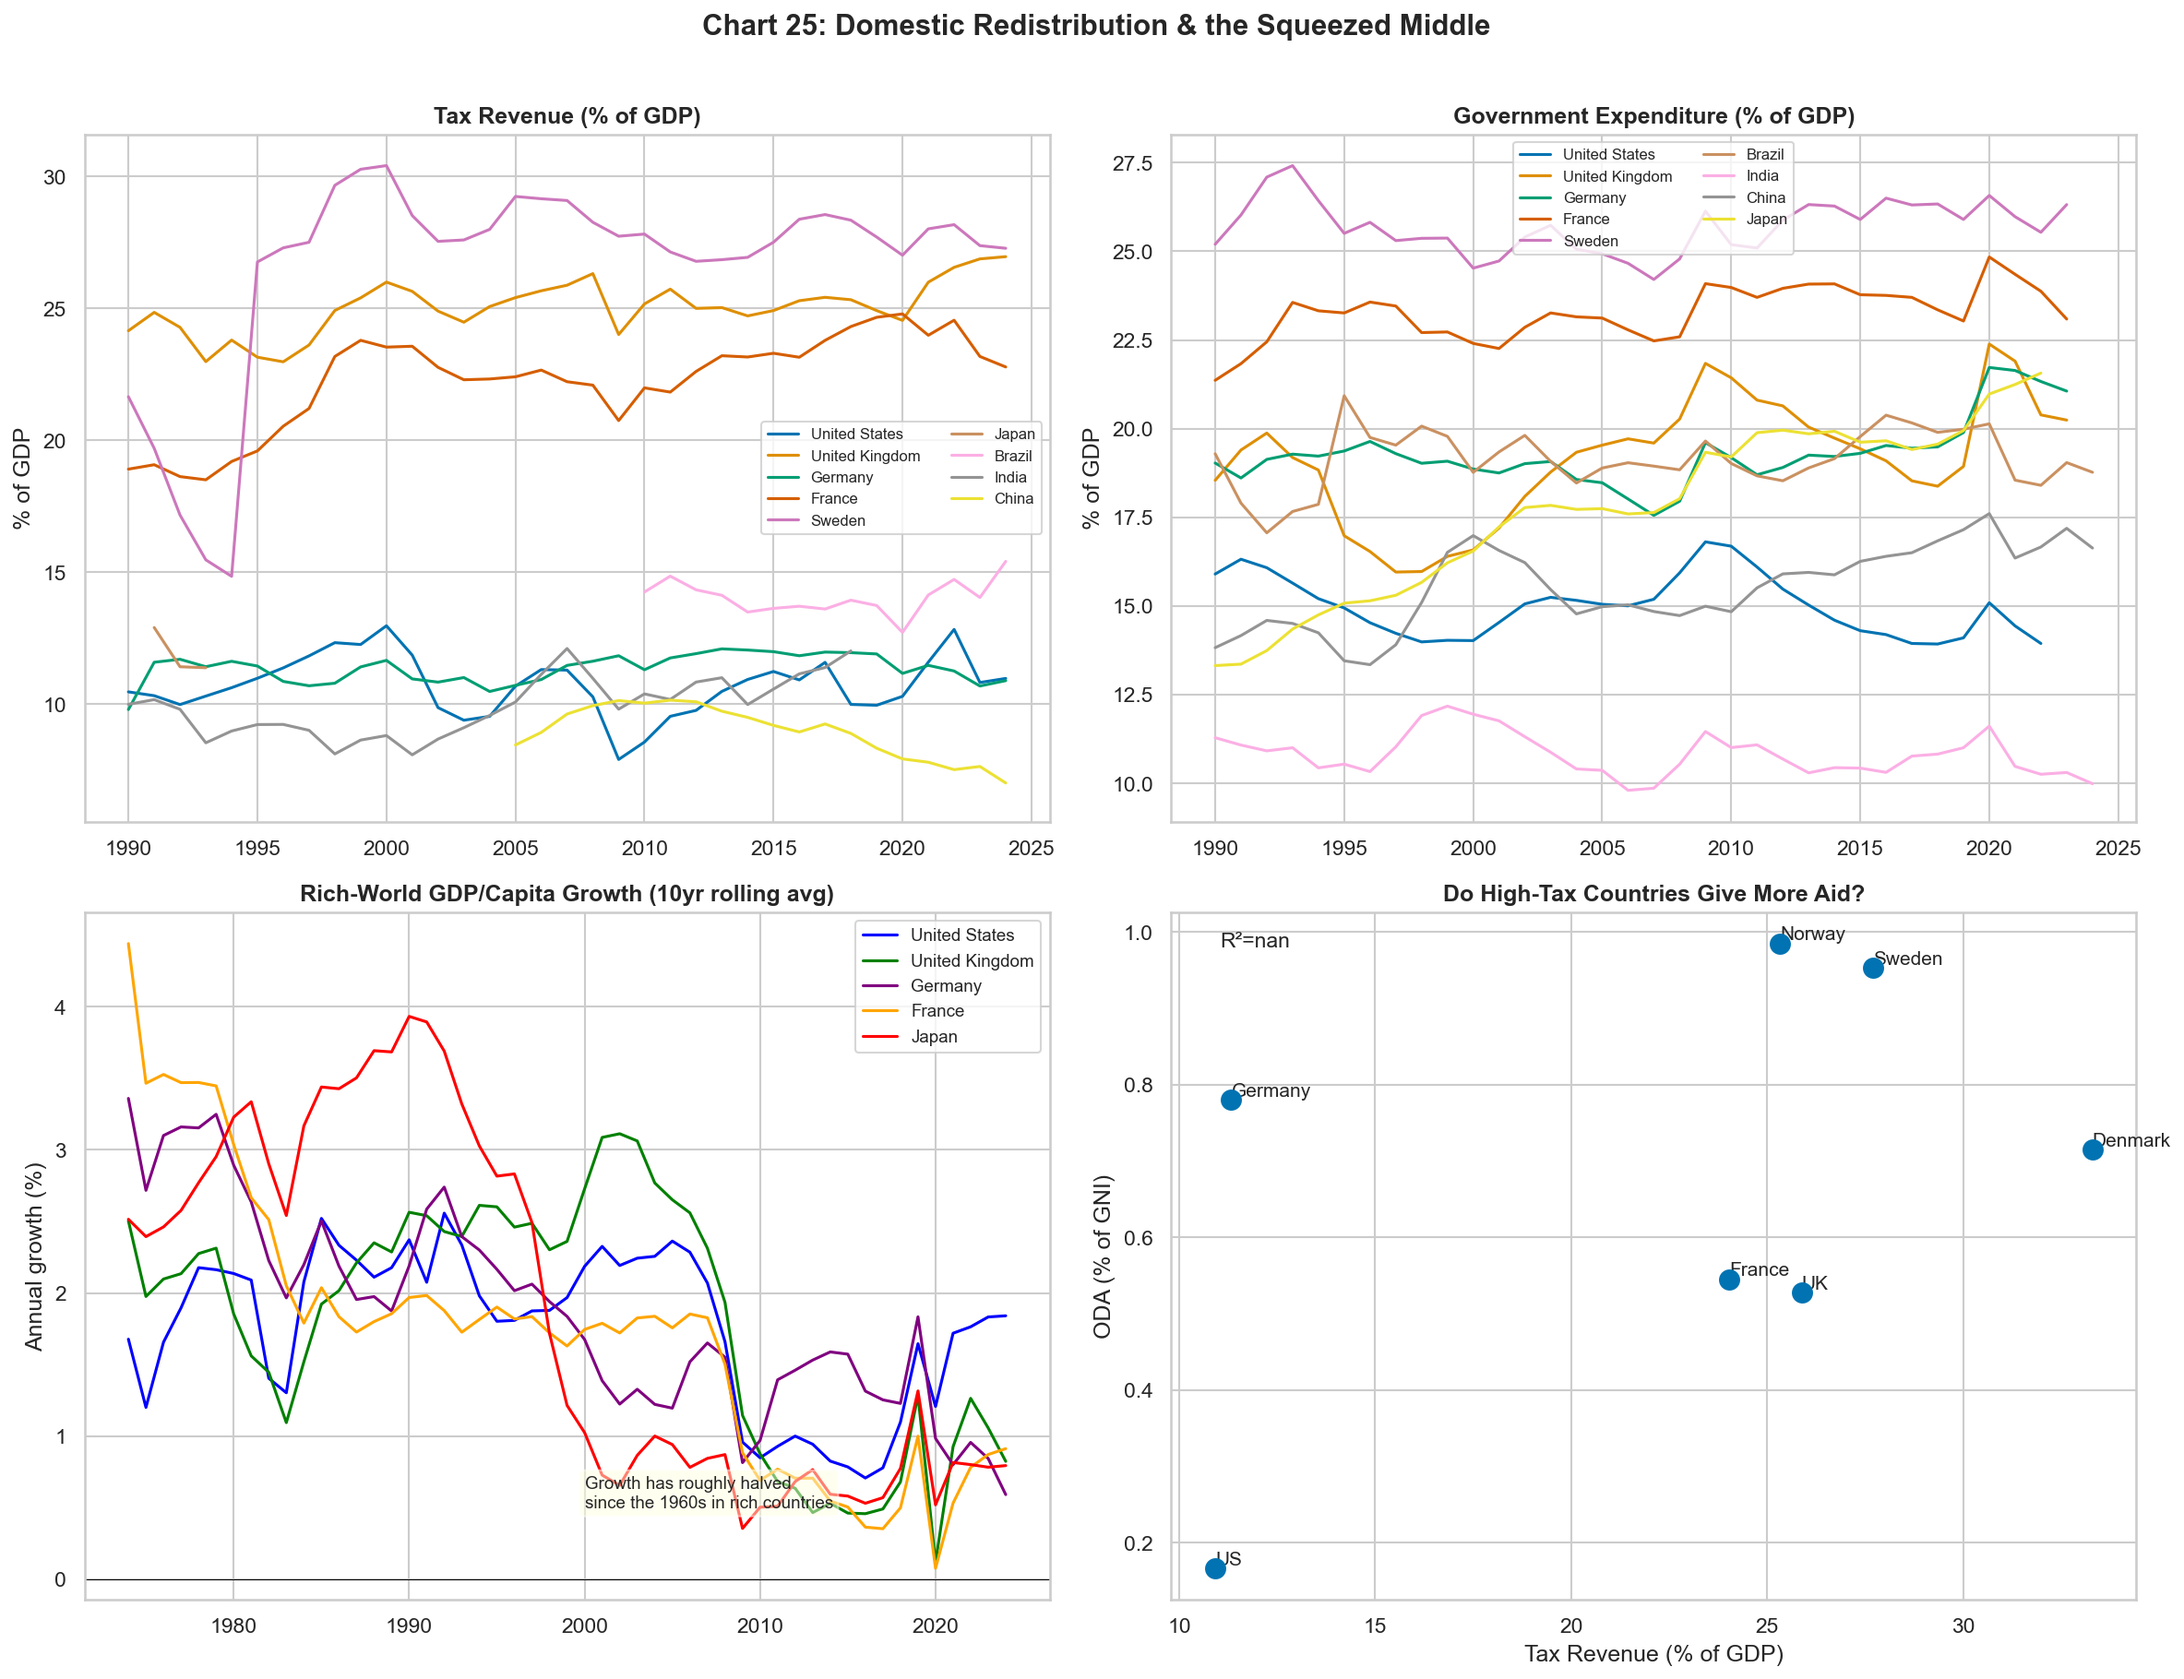
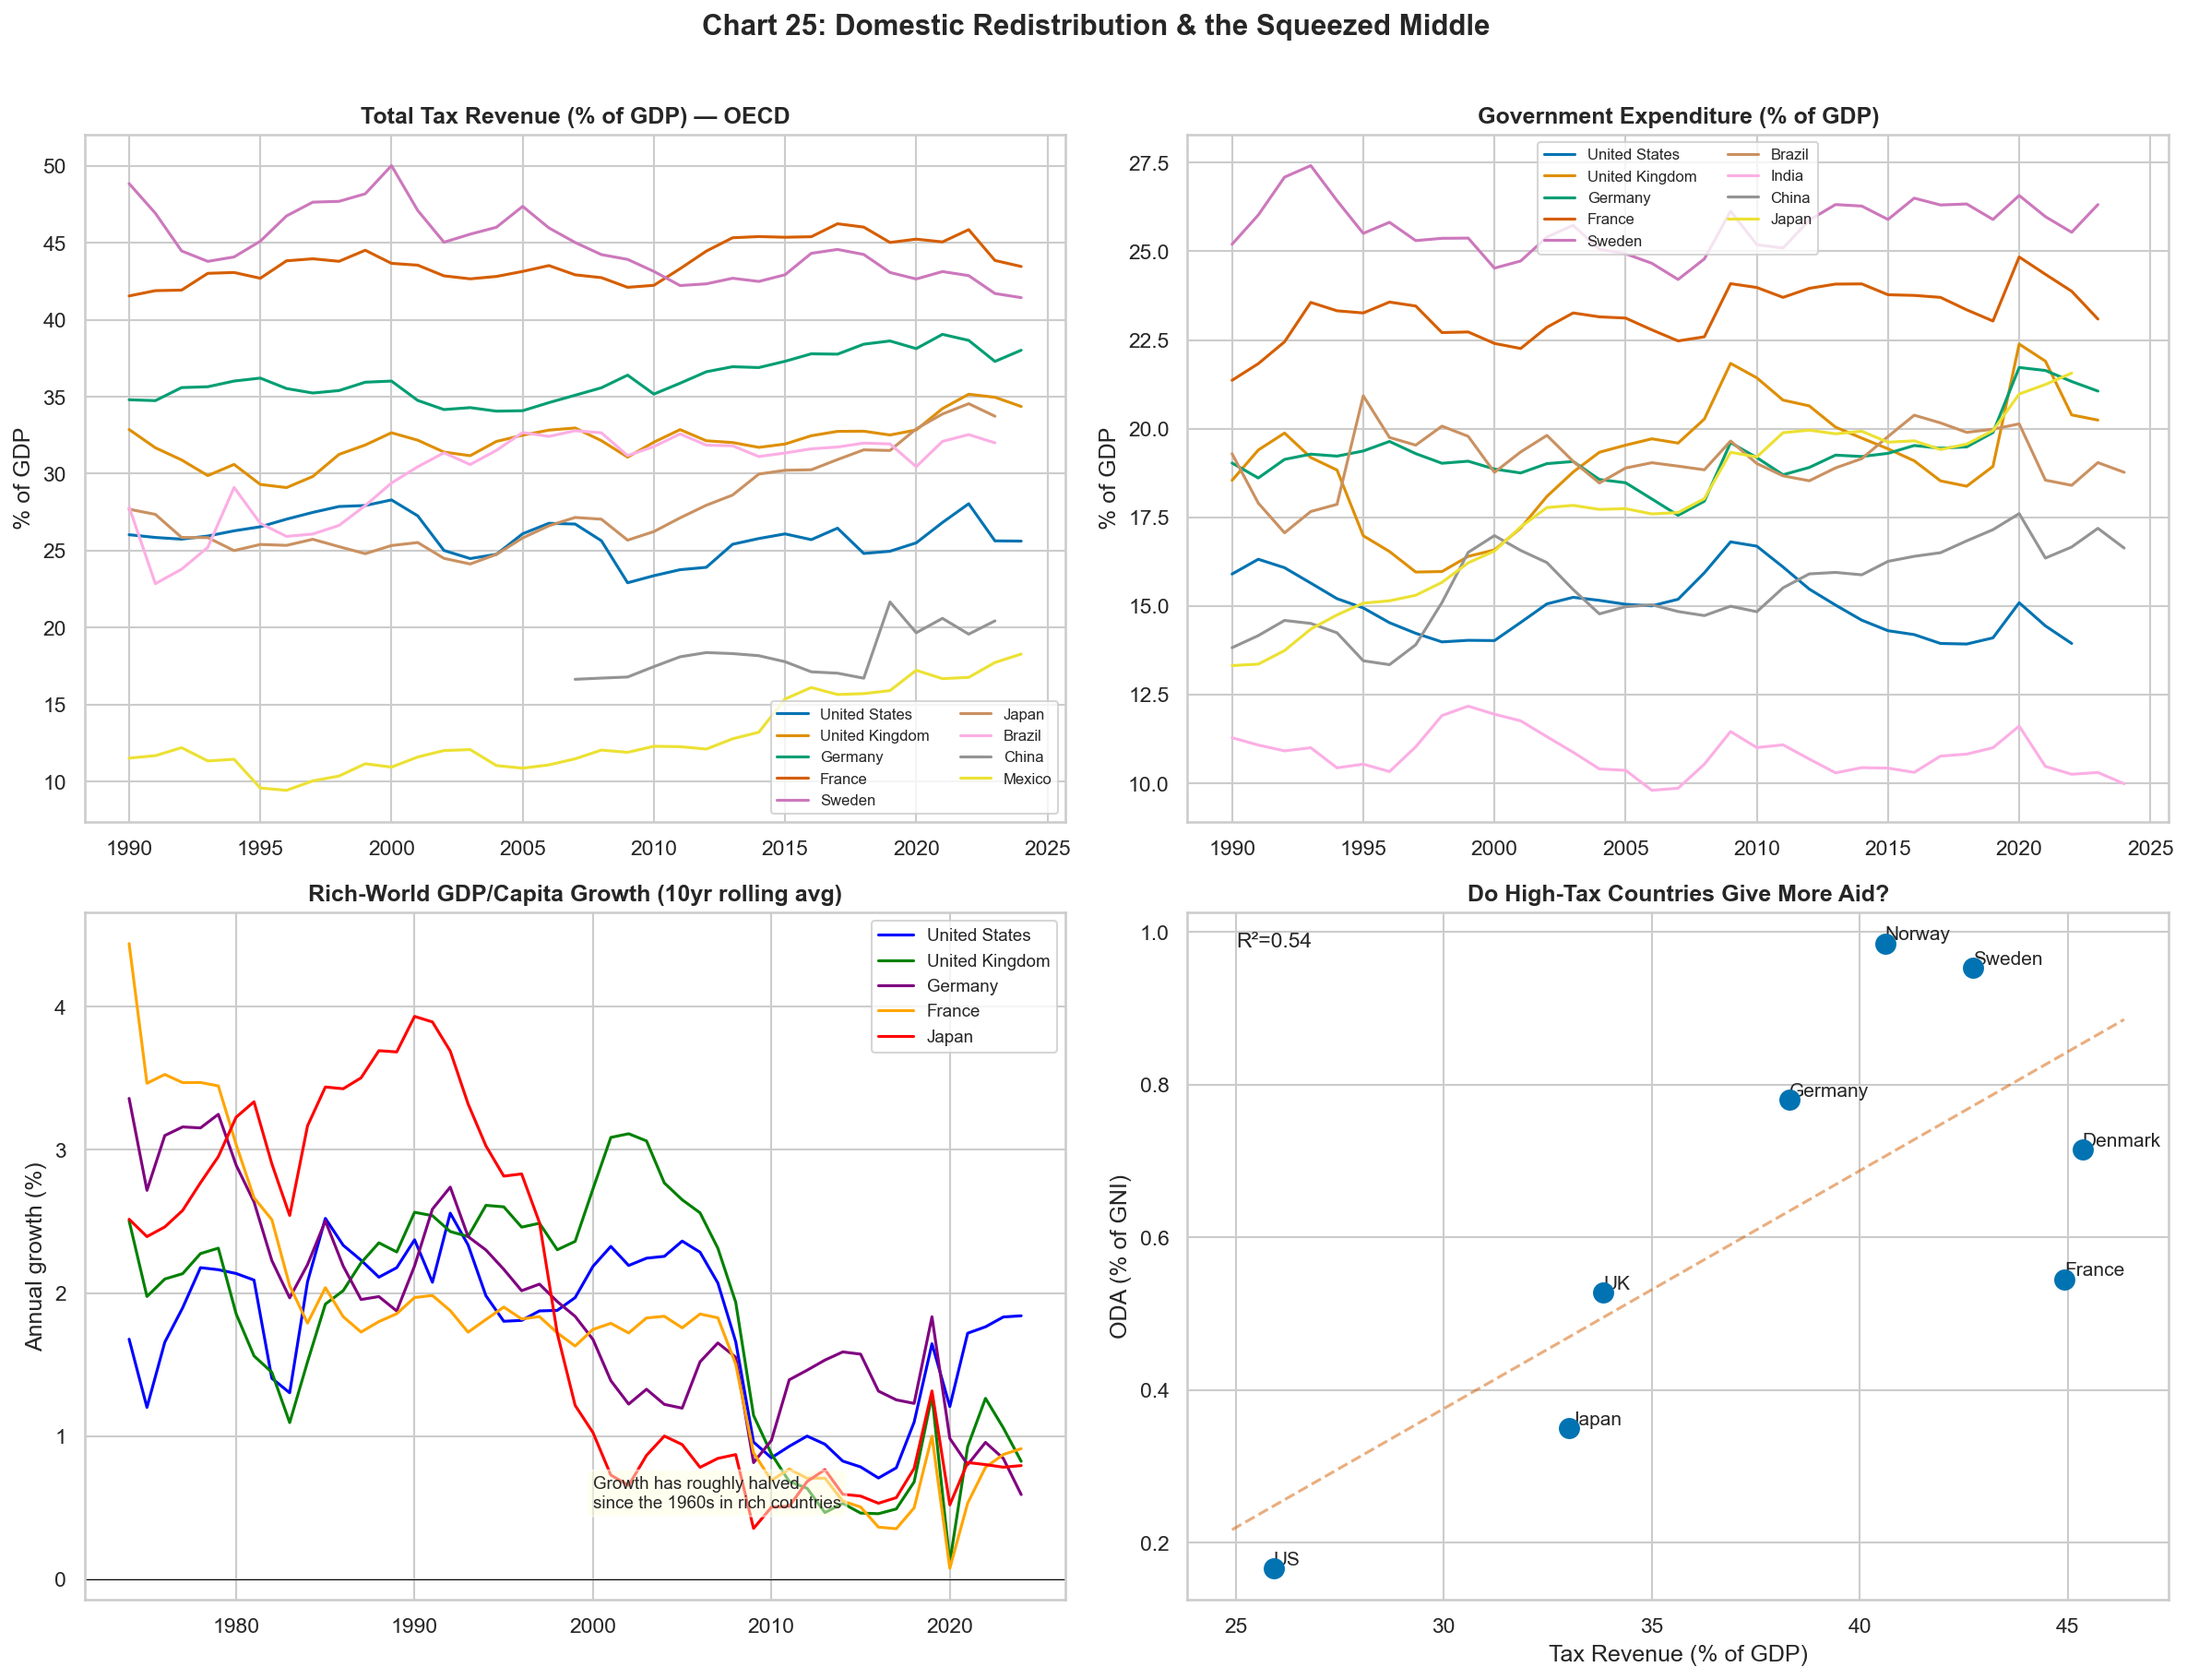
Fix tax revenue data: replace WDI central-govt with OECD total tax
The WDI indicator GC.TAX.TOTL.GD.ZS measures central-government tax only,
which is MISSING for France, Germany, US, UK, Japan, and most rich countries.
This made Chart 25 misleading (e.g., Sweden showed ~28% instead of ~43%).

Now uses OECD Revenue Statistics (total general-government tax as % of GDP):
- France: 44.9% (was missing/understated)
- Sweden: 42.7% (was ~28%)
- Germany: 38.3% (was missing)
- UK: 33.8% (was missing)
- US: 25.9% (was missing)
- 145 countries via OECD + Africa + Asia-Pacific + LAC + Global datasets

Changes:
- download_data.py: new OECD SDMX API download section (5 regional datasets)
- run_analysis_6.py: load OECD csv, fix chart labels, fix tax-vs-ODA scatter
- Chart 25 regenerated with correct total tax data
- README: corrected tax figures, added data source note

diff --git a/analysis/run_analysis_6.py b/analysis/run_analysis_6.py
@@ -71,7 +71,29 @@ oda_dac_total = fetch_wdi('DC.DAC.TOTL.CD', 'oda_dac_total_usd')
 time.sleep(1)
 
 # Government expenditure and tax revenue
-tax_rev = fetch_wdi('GC.TAX.TOTL.GD.ZS', 'tax_revenue_pct_gdp')
+# NOTE: WDI GC.TAX.TOTL.GD.ZS is central-government-only tax and is MISSING for
+# most rich countries (US, UK, France, Germany, Japan, etc.).  We use OECD Revenue
+# Statistics instead, which gives total general-government tax as % of GDP.
+import os as _os
+_oecd_tax_path = _os.path.join('data', 'processed', 'oecd_tax_revenue_pct_gdp.csv')
+if _os.path.exists(_oecd_tax_path):
+    tax_rev = pd.read_csv(_oecd_tax_path)
+    # OECD uses ISO-2 codes (FRA, DEU…) which are actually ISO-3 — same as WDI.
+    # We need a country_code → country name mapping for chart labels.
+    _name_map_wdi = fetch_wdi('NY.GDP.MKTP.CD', '_tmp_names')
+    time.sleep(1)
+    if len(_name_map_wdi) > 0:
+        _cc2name = _name_map_wdi.drop_duplicates('country_code').set_index('country_code')['country'].to_dict()
+    else:
+        _cc2name = {}
+    tax_rev['country'] = tax_rev['country_code'].map(_cc2name)
+    tax_rev = tax_rev.rename(columns={'total_tax_pct_gdp': 'tax_revenue_pct_gdp'})
+    tax_rev['year'] = tax_rev['year'].astype(int)
+    tax_rev = tax_rev.dropna(subset=['tax_revenue_pct_gdp'])
+    print(f"  OECD tax_revenue_pct_gdp: {len(tax_rev)} rows, {tax_rev['country_code'].nunique()} countries")
+else:
+    print("  WARNING: OECD tax data not found, falling back to WDI (central-govt only)")
+    tax_rev = fetch_wdi('GC.TAX.TOTL.GD.ZS', 'tax_revenue_pct_gdp')
 time.sleep(1)
 # Use general government final consumption expenditure (more reliable than GC.XPN.TOTL.GD.ZS)
 govt_exp = fetch_wdi('NE.CON.GOVT.ZS', 'govt_expense_pct_gdp')
@@ -358,16 +380,19 @@ fig, axes = plt.subplots(2, 2, figsize=(16, 12))
 ax = axes[0, 0]
 if len(tax_rev) > 0:
     key_countries_tax = {
-        'United States': 'US', 'United Kingdom': 'GB', 'Germany': 'DE',
-        'France': 'FR', 'Sweden': 'SE', 'Japan': 'JP',
-        'Brazil': 'BR', 'India': 'IN', 'China': 'CN',
+        'United States': 'USA', 'United Kingdom': 'GBR', 'Germany': 'DEU',
+        'France': 'FRA', 'Sweden': 'SWE', 'Japan': 'JPN',
+        'Brazil': 'BRA', 'China': 'CHN', 'Mexico': 'MEX',
     }
     for name, code in key_countries_tax.items():
+        # Try matching by country name first, fall back to country_code
         d = tax_rev[(tax_rev['country'] == name) & (tax_rev['year'] >= 1990)]
+        if len(d) < 3:
+            d = tax_rev[(tax_rev['country_code'] == code) & (tax_rev['year'] >= 1990)]
         d = d.sort_values('year')
         if len(d) > 3:
             ax.plot(d['year'], d['tax_revenue_pct_gdp'], label=name, linewidth=1.5)
-    ax.set_title('Tax Revenue (% of GDP)', fontsize=12, fontweight='bold')
+    ax.set_title('Total Tax Revenue (% of GDP) — OECD', fontsize=12, fontweight='bold')
     ax.set_ylabel('% of GDP')
     ax.legend(fontsize=8, ncol=2)
 
@@ -404,17 +429,20 @@ if len(gdppc_growth) > 0:
 # 2d: Do high-tax countries give more ODA? (cross-section)
 ax = axes[1, 1]
 if len(tax_rev) > 0:
-    # Get latest tax data for DAC donors and match with ODA/GNI
-    latest_tax = tax_rev[tax_rev['year'] >= 2018].groupby('country')['tax_revenue_pct_gdp'].mean()
+    # Get latest tax data using country_code (OECD uses ISO-3)
+    latest_tax_by_code = tax_rev[tax_rev['year'] >= 2018].groupby('country_code')['tax_revenue_pct_gdp'].mean()
     oda_latest = oda_gni_data[oda_gni_data['year'] >= 2020].groupby('country')['oda_gni'].mean()
     
     matched = []
-    name_map = {'US': 'United States', 'UK': 'United Kingdom', 'Germany': 'Germany',
-                'France': 'France', 'Sweden': 'Sweden', 'Norway': 'Norway',
-                'Denmark': 'Denmark', 'Japan': 'Japan'}
-    for short, full in name_map.items():
-        if full in latest_tax.index and short in oda_latest.index:
-            matched.append({'country': short, 'tax_gdp': latest_tax[full], 'oda_gni': oda_latest[short]})
+    # Map ODA short names → ISO-3 codes for matching with OECD tax data
+    oda_to_iso3 = {'US': 'USA', 'UK': 'GBR', 'Germany': 'DEU',
+                   'France': 'FRA', 'Sweden': 'SWE', 'Norway': 'NOR',
+                   'Denmark': 'DNK', 'Japan': 'JPN', 'Netherlands': 'NLD',
+                   'Canada': 'CAN', 'Italy': 'ITA', 'Australia': 'AUS',
+                   'Switzerland': 'CHE', 'Finland': 'FIN', 'Belgium': 'BEL'}
+    for short, iso3 in oda_to_iso3.items():
+        if iso3 in latest_tax_by_code.index and short in oda_latest.index:
+            matched.append({'country': short, 'tax_gdp': latest_tax_by_code[iso3], 'oda_gni': oda_latest[short]})
     
     mdf = pd.DataFrame(matched)
     if len(mdf) > 3:
@@ -441,10 +469,14 @@ plt.close()
 print("  → Chart 25 saved: domestic_redistribution.png")
 
 # Print key fiscal numbers
-print("\nTax Revenue (% GDP) trends for key countries:")
+print("\nTotal Tax Revenue (% GDP) — OECD Revenue Statistics:")
 if len(tax_rev) > 0:
-    for name in ['United States', 'United Kingdom', 'Germany', 'France', 'Sweden', 'India', 'China']:
-        d = tax_rev[tax_rev['country'] == name].sort_values('year')
+    for code, name in [('USA', 'United States'), ('GBR', 'United Kingdom'), ('DEU', 'Germany'),
+                        ('FRA', 'France'), ('SWE', 'Sweden'), ('JPN', 'Japan'),
+                        ('BRA', 'Brazil'), ('CHN', 'China'), ('MEX', 'Mexico')]:
+        d = tax_rev[tax_rev['country_code'] == code].sort_values('year')
+        if len(d) == 0:
+            d = tax_rev[tax_rev['country'] == name].sort_values('year')
         recent = d[d['year'] >= 2018]['tax_revenue_pct_gdp'].mean()
         early = d[(d['year'] >= 1995) & (d['year'] <= 2005)]['tax_revenue_pct_gdp'].mean()
         if pd.notna(recent):

diff --git a/analysis/download_data.py b/analysis/download_data.py
@@ -235,6 +235,57 @@ except Exception as e:
     print(f"  FAILED OWID CO2: {e}")
 
 # ============================================================
+# 6. OECD REVENUE STATISTICS (Total Tax Revenue as % of GDP)
+# ============================================================
+print("\n" + "=" * 60)
+print("OECD REVENUE STATISTICS — TOTAL TAX REVENUE (% GDP)")
+print("=" * 60)
+
+oecd_tax_path = os.path.join(PROC, "oecd_tax_revenue_pct_gdp.csv")
+if os.path.exists(oecd_tax_path) and os.path.getsize(oecd_tax_path) > 100:
+    print(f"  [cached] oecd_tax_revenue_pct_gdp.csv")
+else:
+    print("  Downloading OECD total tax/GDP from SDMX API...")
+    oecd_dfs = []
+    oecd_datasets = [
+        ('DSD_REV_COMP_OECD@DF_RSOECD', 'OECD'),
+        ('DSD_REV_COMP_LAC@DF_RSLAC', 'LAC'),
+        ('DSD_REV_COMP_AFRICA@DF_RSAFRICA', 'Africa'),
+        ('DSD_REV_COMP_ASAP@DF_RSASAP', 'Asia-Pacific'),
+        ('DSD_REV_COMP_GLOBAL@DF_RSGLOBAL', 'Global'),
+    ]
+    for ds_id, label in oecd_datasets:
+        url = (f'https://sdmx.oecd.org/public/rest/data/OECD.CTP.TPS,{ds_id},/'
+               f'.TAX_REV.S13._T..PT_B1GQ.A'
+               f'?startPeriod=1965&endPeriod=2025&dimensionAtObservation=AllDimensions')
+        try:
+            r = session.get(url, headers={'Accept': 'application/vnd.sdmx.data+csv;version=2.0.0'},
+                            timeout=120)
+            if r.status_code == 200:
+                df_oecd = pd.read_csv(io.StringIO(r.text))
+                df_oecd['source'] = label
+                n = df_oecd['REF_AREA'].nunique()
+                print(f"    {label}: {len(df_oecd)} rows, {n} countries")
+                oecd_dfs.append(df_oecd)
+            else:
+                print(f"    {label}: HTTP {r.status_code}")
+            time.sleep(1)
+        except Exception as e:
+            print(f"    {label}: FAILED {e}")
+
+    if oecd_dfs:
+        oecd_all = pd.concat(oecd_dfs, ignore_index=True)
+        oecd_all = oecd_all.drop_duplicates(subset=['REF_AREA', 'TIME_PERIOD'], keep='first')
+        # Simplify to just the columns we need
+        oecd_out = oecd_all[['REF_AREA', 'TIME_PERIOD', 'OBS_VALUE']].copy()
+        oecd_out.columns = ['country_code', 'year', 'total_tax_pct_gdp']
+        oecd_out = oecd_out.dropna(subset=['total_tax_pct_gdp'])
+        oecd_out.to_csv(oecd_tax_path, index=False)
+        print(f"  -> OECD tax/GDP: {len(oecd_out)} rows, {oecd_out['country_code'].nunique()} countries")
+    else:
+        print("  -> FAILED: no OECD data downloaded")
+
+# ============================================================
 # Summary
 # ============================================================
 print("\n" + "=" * 60)

diff --git a/README.md b/README.md
@@ -252,7 +252,9 @@ Effective real resource transfer to poor countries is roughly **25-40% less** th
 The papers treat rich-world redistribution as a policy choice blocked by greed. The data suggests something more structural:
 
 ![Domestic redistribution](charts/25_domestic_redistribution.png)
-*Top-left: Tax revenue as % of GDP varies enormously (Sweden ~28%, US ~11%, China ~8%). Bottom-left: Rich-world GDP/capita growth has roughly halved — from 2.5-6.5%/yr in 1960-75 to 0.9-1.7%/yr in 2010-23. This isn't imagined. Bottom-right: Countries with higher domestic tax rates tend to give more ODA — domestic and international redistribution come from the same political wellspring.*
+*Top-left: Total tax revenue as % of GDP (OECD Revenue Statistics) — France ~45%, Sweden ~43%, Germany ~38%, UK ~34%, US ~26%. Bottom-left: Rich-world GDP/capita growth has roughly halved — from 2.5-6.5%/yr in 1960-75 to 0.9-1.7%/yr in 2010-23. This isn't imagined. Bottom-right: Countries with higher total tax burdens tend to give more ODA — domestic and international redistribution come from the same political wellspring.*
+
+> **Data note:** Earlier versions used the WDI indicator GC.TAX.TOTL.GD.ZS (central-government tax revenue only), which is missing entirely for France, Germany, the US, UK, and Japan. Chart 25 now uses [OECD Revenue Statistics](https://www.oecd.org/tax/tax-policy/revenue-statistics.htm), which captures **total general-government tax** including social security contributions, sub-national taxes, and all other levies. This is why France shows ~45% rather than the ~0% the WDI would imply.
 
 | Country | Growth 1960–75 | Growth 2010–23 | Decline |
 |---|---|---|---|
@@ -691,7 +693,8 @@ The nuclear reactor metaphor stands: capitalism is a powerful energy source that
 | [Our World in Data](https://ourworldindata.org/) | DMC per capita | 1970–2022, 248 countries | Domestic material consumption per capita by country |
 | [IEA](https://www.iea.org/) | Critical Minerals Outlook 2025 | 2020–2040 | Transition mineral demand projections by scenario |
 | [USGS](https://pubs.usgs.gov/) | Mineral Commodity Summaries 2025 | Annual | Copper, nickel, lithium, cobalt, rare earth production volumes |
-| [World Bank WDI](https://data.worldbank.org/) | ODA & Fiscal Indicators | 1960–2024 | Net ODA received, bilateral ODA by donor, tax revenue/GDP, GDP/capita growth |
+| [World Bank WDI](https://data.worldbank.org/) | ODA & Fiscal Indicators | 1960–2024 | Net ODA received, bilateral ODA by donor, govt expenditure/GDP, GDP/capita growth |
+| [OECD Revenue Statistics](https://www.oecd.org/tax/tax-policy/revenue-statistics.htm) | Total Tax Revenue (% GDP) | 1965–2024, 145 countries | General-government total tax revenue as % of GDP (OECD + Africa + Asia-Pacific + LAC + Global datasets) |
 
 ### Analysis Scripts
 
